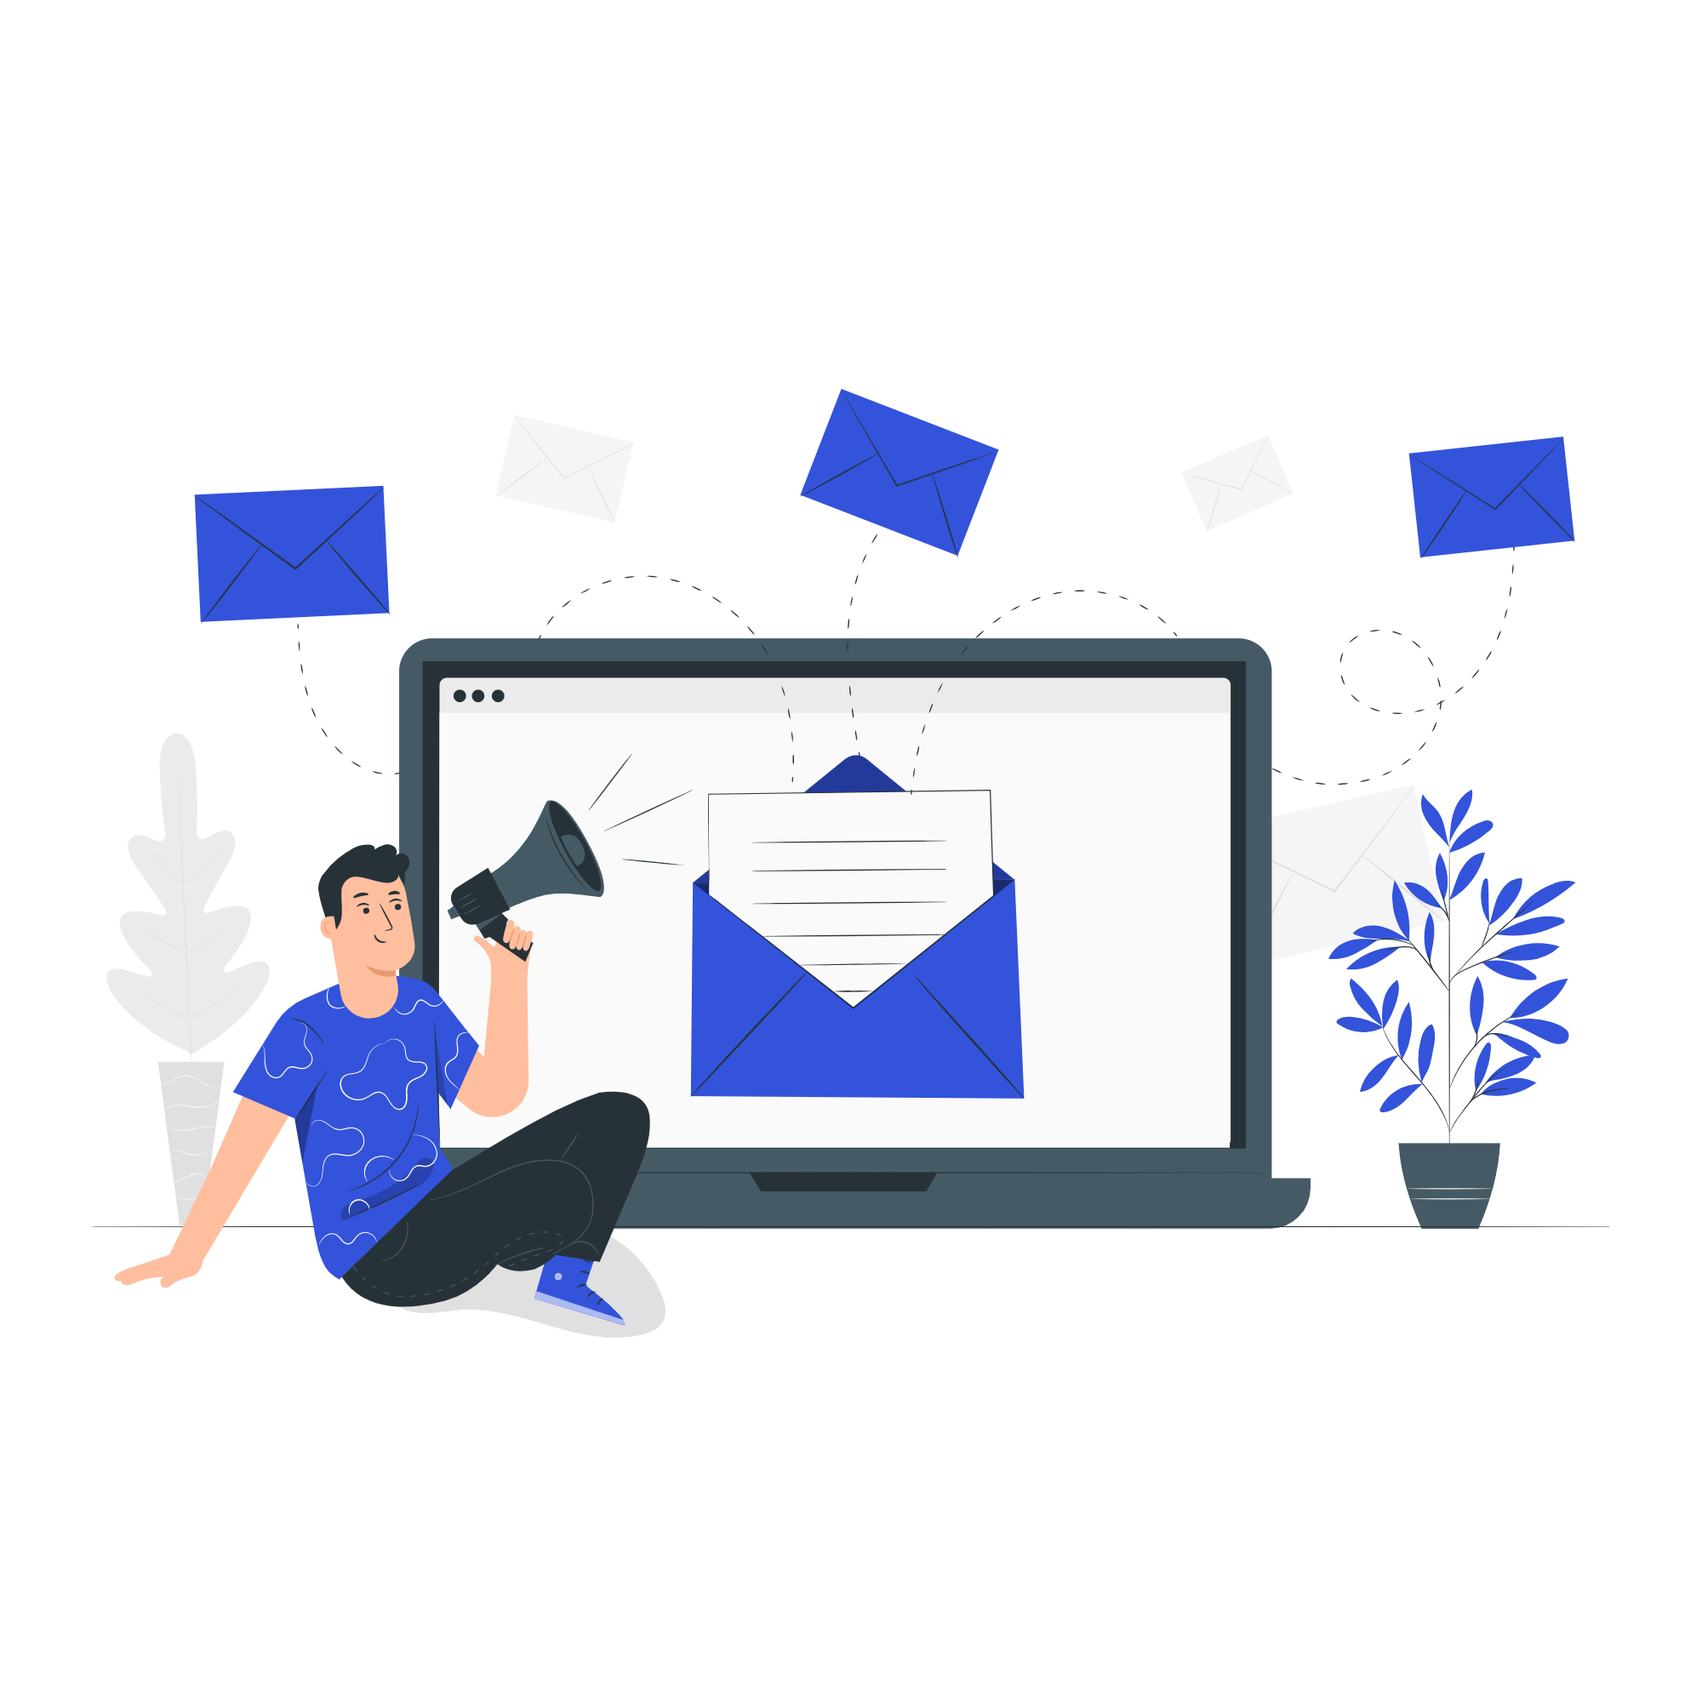
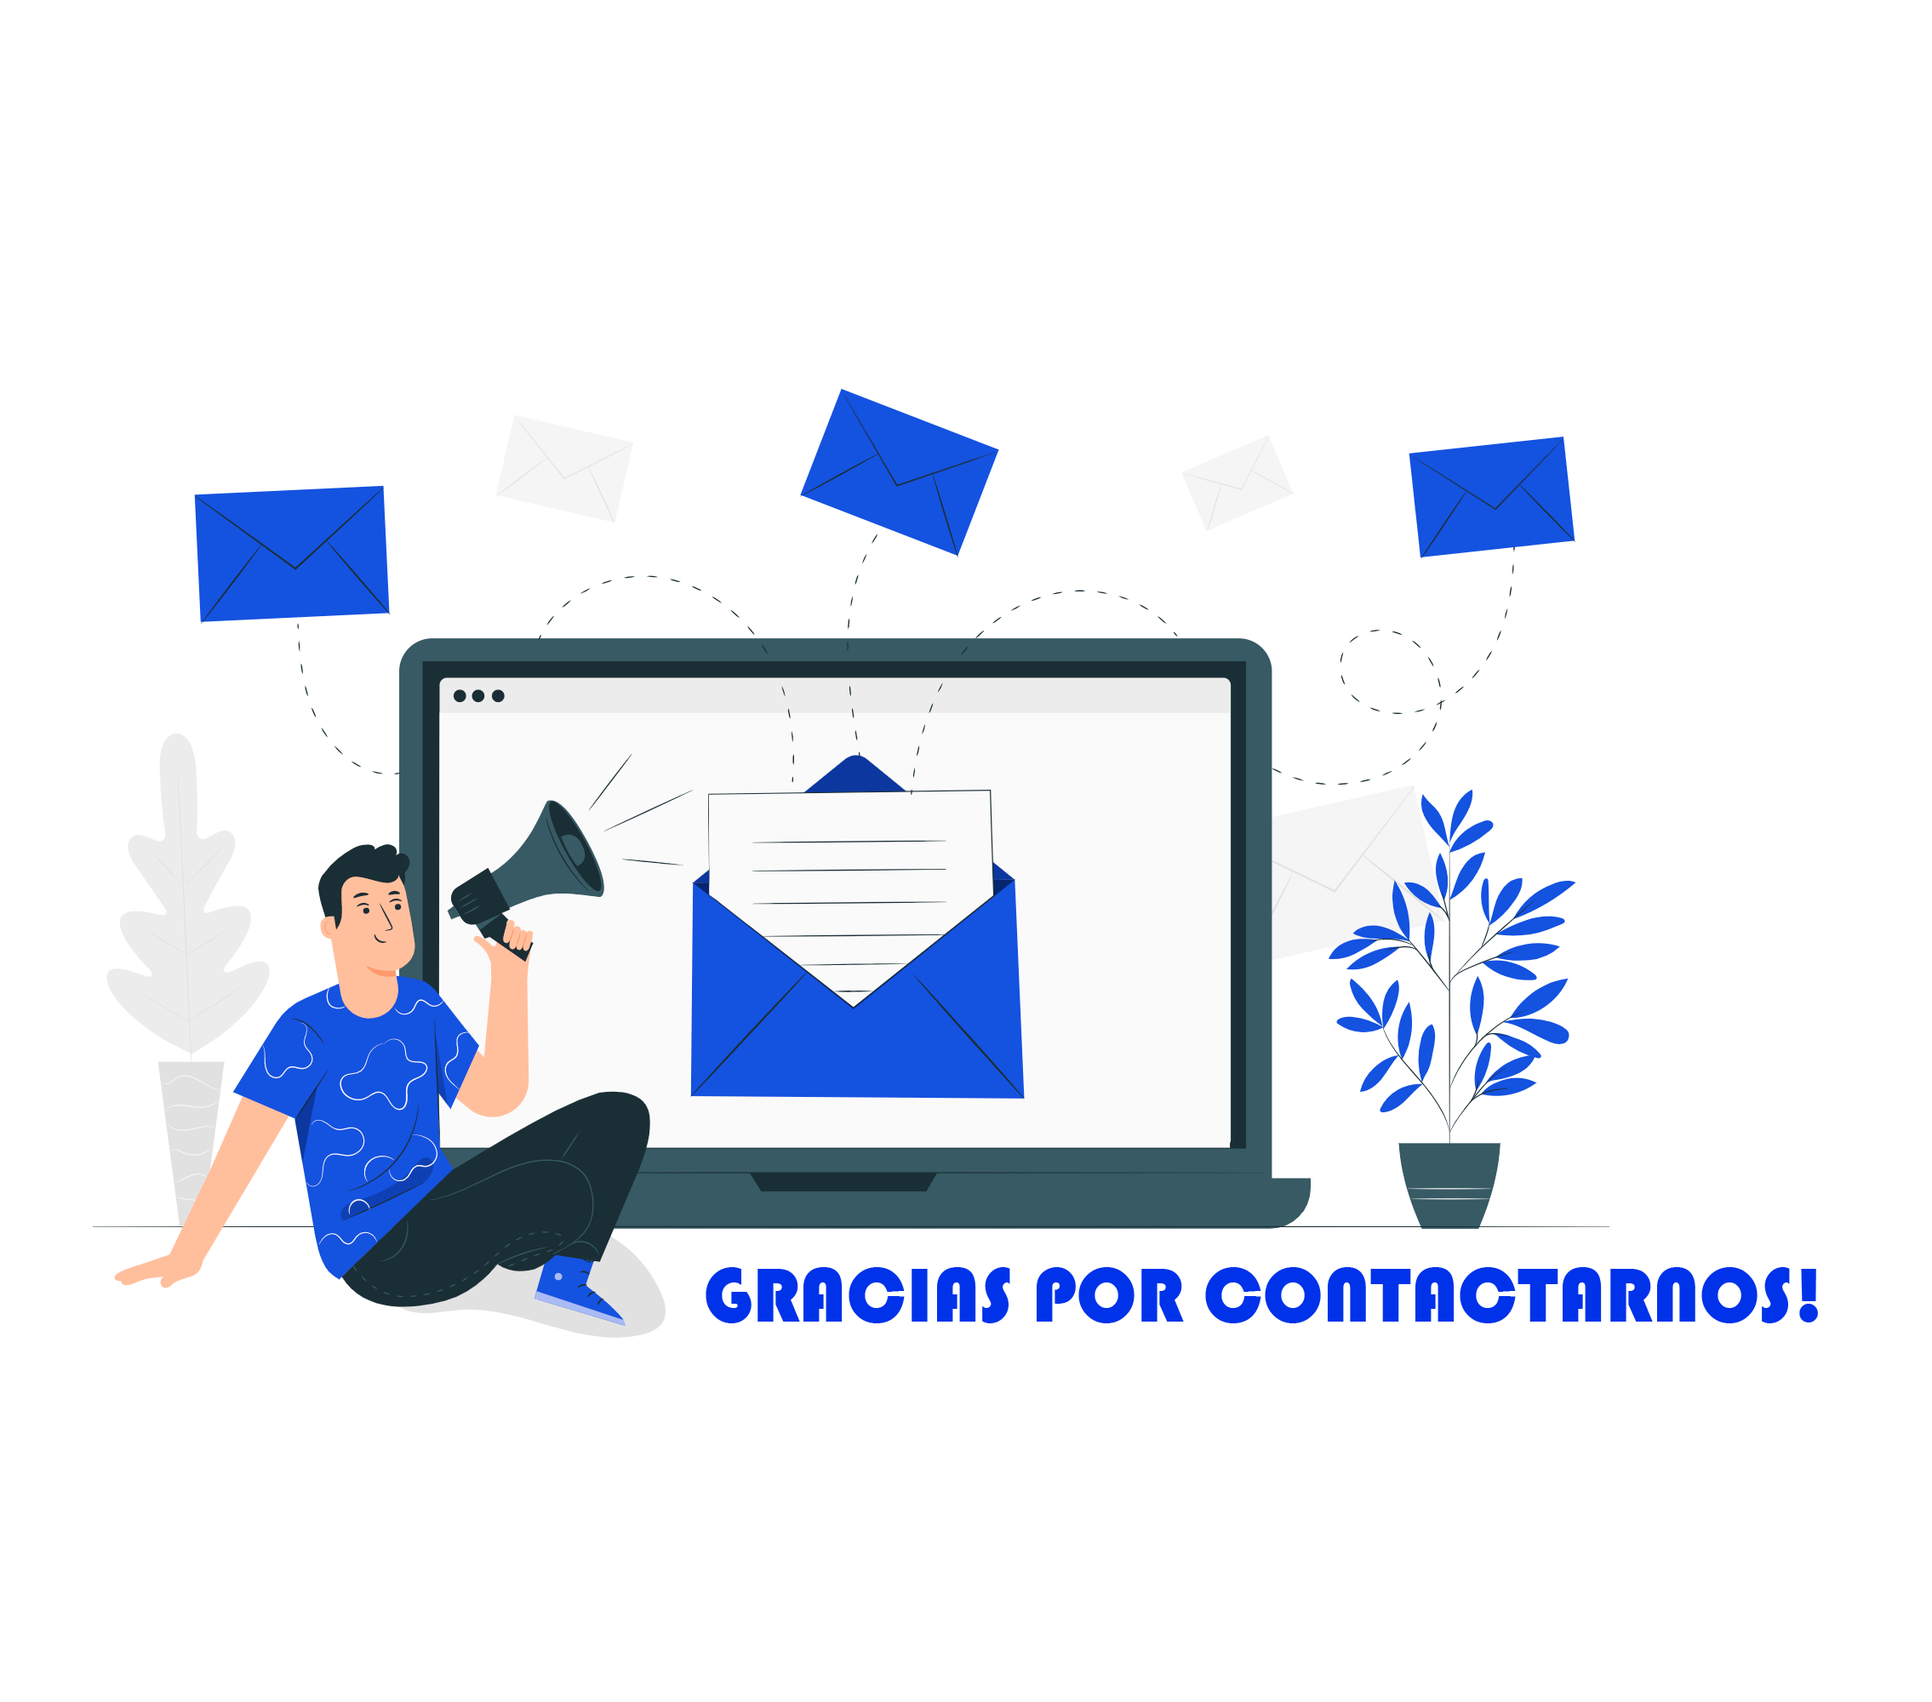
punto de control-- falta el backend de contacto

Changed region(s): [[0.062, 0.279, 0.961, 0.806], [0.713, 0.248, 0.93, 0.341], [0.403, 0.217, 0.589, 0.341]]

diff --git a/css/estilo.css b/css/estilo.css
@@ -1,253 +1,1 @@
-* {
-  -webkit-box-sizing: border-box;
-  -moz-box-sizing: border-box;
-  box-sizing: border-box; }
-
-body {
-  font-family: "Cormorant Garamond", serif;
-  font-size: 16px; }
-
-.contenedor {
-  width: 90%;
-  max-width: 1000px;
-  margin: auto;
-  overflow: hidden; }
-
-header .menu {
-  width: 100%;
-  text-align: right;
-  background: #f5f5f5; }
-  header .menu .contenedor {
-    position: relative;
-    display: flex;
-    flex-direction: row;
-    flex-wrap: wrap;
-    justify-content: space-between; }
-    header .menu .contenedor .logo {
-      margin: 10px 10px; }
-      header .menu .contenedor .logo img {
-        height: 60px;
-        width: 260px; }
-    header .menu .contenedor .item a {
-      color: #000;
-      font-size: 25px;
-      font-weight: 400;
-      display: inline-block;
-      margin: 30px 10px;
-      text-decoration: none;
-      position: relative; }
-      header .menu .contenedor .item a:hover {
-        text-decoration: underline; }
-header .portada {
-  width: 100%;
-  height: 500px;
-  background: url("../img/BG.png");
-  background-size: cover;
-  background-attachment: fixed;
-  background-position: center 0; }
-  header .portada .textos {
-    width: 100%;
-    color: #fff;
-    position: relative;
-    margin: 160px 20px; }
-    header .portada .textos .nombre {
-      font-size: 50px;
-      font-weight: 600; }
-    header .portada .textos h3 {
-      font-weight: 500;
-      font-size: 25px; }
-
-.main .somos {
-  background: #ffffff;
-  padding: 60px 0; }
-  .main .somos .titulo {
-    text-align: center;
-    font-size: 40px;
-    line-height: 40px;
-    font-weight: 500;
-    margin-bottom: 40px; }
-  .main .somos article {
-    text-align: center; }
-    .main .somos article p {
-      margin-bottom: 30px;
-      line-height: 28px;
-      font-weight: 400; }
-
-.servicios {
-  padding: 70px 0;
-  background: #f5f5f5; }
-  .servicios .titulo-contenedor {
-    width: 100%; }
-    .servicios .titulo-contenedor .titulo {
-      color: #3895ea;
-      text-align: center;
-      font-size: 40px;
-      line-height: 40px;
-      font-weight: 500;
-      margin-bottom: 40px; }
-  .servicios .listado-servicio {
-    display: flex;
-    flex-direction: row;
-    flex-wrap: wrap;
-    justify-content: space-between; }
-    .servicios .listado-servicio .servicio {
-      width: 30%;
-      margin-bottom: 40px; }
-      .servicios .listado-servicio .servicio .thumb {
-        width: 100%;
-        margin-bottom: 10px; }
-        .servicios .listado-servicio .servicio .thumb img {
-          vertical-align: top;
-          width: 100%; }
-      .servicios .listado-servicio .servicio .descripcion {
-        text-align: center; }
-        .servicios .listado-servicio .servicio .descripcion .primera_linea {
-          font-weight: 700;
-          font-size: 26px;
-          margin-bottom: 10px; }
-          .servicios .listado-servicio .servicio .descripcion .primera_linea::after {
-            display: block;
-            content: "";
-            background: #0368a3;
-            width: 100px;
-            height: 2px;
-            margin: 20px 98px; }
-        .servicios .listado-servicio .servicio .descripcion .parrafo {
-          font-weight: 500;
-          font-size: 21px;
-          line-height: 24px; }
-
-.clientes {
-  padding: 70px 0; }
-  .clientes .titulo-contenedor {
-    width: 100%; }
-    .clientes .titulo-contenedor .titulo {
-      text-align: center;
-      font-size: 40px;
-      line-height: 40px;
-      font-weight: 500;
-      margin-bottom: 40px; }
-  .clientes .listado-clientes {
-    display: flex;
-    flex-direction: column;
-    flex-wrap: wrap;
-    justify-content: space-between; }
-    .clientes .listado-clientes .cliente {
-      width: 100%;
-      overflow: hidden;
-      margin-bottom: 20px; }
-      .clientes .listado-clientes .cliente .empresa-img {
-        width: 20%;
-        float: left;
-        text-align: right;
-        margin: 10px 20px; }
-        .clientes .listado-clientes .cliente .empresa-img img {
-          max-width: 100px;
-          width: 100%;
-          vertical-align: top;
-          border-radius: 100%; }
-      .clientes .listado-clientes .cliente .review {
-        float: left;
-        width: 80%;
-        padding: 0 30px;
-        margin-top: 20px; }
-        .clientes .listado-clientes .cliente .review .texto {
-          font-size: 20px;
-          line-height: 28px;
-          margin-bottom: 10px;
-          font-weight: 500;
-          font-style: italic; }
-        .clientes .listado-clientes .cliente .review .nombre {
-          color: #ddb146;
-          font-size: 16px; }
-      .clientes .listado-clientes .cliente.derecha .empresa-img {
-        float: right;
-        text-align: left; }
-      .clientes .listado-clientes .cliente.derecha .review {
-        float: right;
-        text-align: right; }
-
-.contacto {
-  padding: 70px 0px;
-  background: #f5f5f5; }
-  .contacto .titulo-contenedor {
-    width: 100%; }
-    .contacto .titulo-contenedor .titulo {
-      color: #3895ea;
-      text-align: center;
-      font-size: 40px;
-      line-height: 40px;
-      font-weight: 600; }
-  .contacto .error-content {
-    display: flex;
-    flex-wrap: wrap;
-    justify-content: center;
-    padding-bottom: 10px; }
-    .contacto .error-content .errores {
-      width: 30%; }
-      .contacto .error-content .errores .emailSend {
-        width: 100%;
-        margin-bottom: 10px; }
-        .contacto .error-content .errores .emailSend img {
-          vertical-align: top; }
-      .contacto .error-content .errores p {
-        font-size: 20px;
-        font-weight: 500;
-        color: #c00000c0; }
-  .contacto .formulario {
-    display: flex;
-    flex-direction: row;
-    flex-wrap: wrap;
-    justify-content: space-around; }
-    .contacto .formulario .tipo-input {
-      width: 45%;
-      padding: 20px 10px; }
-      .contacto .formulario .tipo-input input[type="text"],
-      .contacto .formulario .tipo-input input[type="email"] {
-        width: 100%;
-        margin-bottom: 15px;
-        border: 2px solid #cecece;
-        border-radius: 5px;
-        padding: 15px 20px;
-        font-size: 20px;
-        color: #a4a4a4;
-        outline: none; }
-        .contacto .formulario .tipo-input input[type="text"]:focus,
-        .contacto .formulario .tipo-input input[type="email"]:focus {
-          border: 2px solid #387bea; }
-    .contacto .formulario .tipo-textArea {
-      width: 45%;
-      padding: 20px 10px; }
-      .contacto .formulario .tipo-textArea textarea {
-        width: 100%;
-        height: 201px;
-        margin-bottom: 15px;
-        max-height: 300px;
-        margin-bottom: 15px;
-        border: 2px solid #cecece;
-        border-radius: 5px;
-        padding: 15px 20px;
-        font-size: 20px;
-        color: #a4a4a4;
-        outline: none; }
-        .contacto .formulario .tipo-textArea textarea:focus {
-          border: 2px solid #387bea; }
-    .contacto .formulario .boton {
-      margin: auto;
-      background: #3895ea;
-      color: #fff;
-      border: none;
-      border-radius: 3px;
-      padding: 15px 40px;
-      font-size: 18px; }
-      .contacto .formulario .boton:hover {
-        background: #387bea; }
-
-footer {
-  background: #000; }
-  footer p {
-    text-align: center;
-    padding: 15px 0;
-    color: #fff;
-    font-weight: 500;
-    font-size: 20px; }
+*{-webkit-box-sizing:border-box;-moz-box-sizing:border-box;box-sizing:border-box}body{font-family:"Cormorant Garamond",serif;font-size:16px}.contenedor{width:90%;max-width:1000px;margin:auto;overflow:hidden}header .menu{width:100%;text-align:right;background:#f5f5f5}header .menu .contenedor{position:relative;display:flex;flex-direction:row;flex-wrap:wrap;justify-content:space-between}header .menu .contenedor .logo{margin:10px 10px}header .menu .contenedor .logo img{height:60px;width:260px}header .menu .contenedor .item a{color:#000;font-size:25px;font-weight:400;display:inline-block;margin:30px 10px;text-decoration:none;position:relative}header .menu .contenedor .item a:hover{text-decoration:underline}header .portada{width:100%;height:500px;background:url("../img/BG.png");background-size:cover;background-attachment:fixed;background-position:center 0}header .portada .textos{width:100%;color:#fff;position:relative;margin:160px 20px}header .portada .textos .nombre{font-size:50px;font-weight:600}header .portada .textos h3{font-weight:500;font-size:25px}.main .somos{background:#fff;padding:60px 0}.main .somos .titulo{text-align:center;font-size:40px;line-height:40px;font-weight:500;margin-bottom:40px}.main .somos article{text-align:center}.main .somos article p{margin-bottom:30px;line-height:28px;font-weight:400}.servicios{padding:70px 0;background:#f5f5f5}.servicios .titulo-contenedor{width:100%}.servicios .titulo-contenedor .titulo{color:#3895ea;text-align:center;font-size:40px;line-height:40px;font-weight:500;margin-bottom:40px}.servicios .listado-servicio{display:flex;flex-direction:row;flex-wrap:wrap;justify-content:space-between}.servicios .listado-servicio .servicio{width:30%;margin-bottom:40px}.servicios .listado-servicio .servicio .thumb{width:100%;margin-bottom:10px}.servicios .listado-servicio .servicio .thumb img{vertical-align:top;width:100%}.servicios .listado-servicio .servicio .descripcion{text-align:center}.servicios .listado-servicio .servicio .descripcion .primera_linea{font-weight:700;font-size:26px;margin-bottom:10px}.servicios .listado-servicio .servicio .descripcion .primera_linea::after{display:block;content:"";background:#0368a3;width:100px;height:2px;margin:20px 98px}.servicios .listado-servicio .servicio .descripcion .parrafo{font-weight:500;font-size:21px;line-height:24px}.clientes{padding:70px 0}.clientes .titulo-contenedor{width:100%}.clientes .titulo-contenedor .titulo{text-align:center;font-size:40px;line-height:40px;font-weight:500;margin-bottom:40px}.clientes .listado-clientes{display:flex;flex-direction:column;flex-wrap:wrap;justify-content:space-between}.clientes .listado-clientes .cliente{width:100%;overflow:hidden;margin-bottom:20px}.clientes .listado-clientes .cliente .empresa-img{width:20%;float:left;text-align:right;margin:10px 20px}.clientes .listado-clientes .cliente .empresa-img img{max-width:100px;width:100%;vertical-align:top;border-radius:100%}.clientes .listado-clientes .cliente .review{float:left;width:80%;padding:0 30px;margin-top:20px}.clientes .listado-clientes .cliente .review .texto{font-size:20px;line-height:28px;margin-bottom:10px;font-weight:500;font-style:italic}.clientes .listado-clientes .cliente .review .nombre{color:#ddb146;font-size:16px}.clientes .listado-clientes .cliente.derecha .empresa-img{float:right;text-align:left}.clientes .listado-clientes .cliente.derecha .review{float:right;text-align:right}.contacto{padding:70px 0px;background:#f5f5f5}.contacto .titulo-contenedor{width:100%}.contacto .titulo-contenedor .titulo{color:#3895ea;text-align:center;font-size:40px;line-height:40px;font-weight:600}.contacto .error-content{display:flex;flex-wrap:wrap;justify-content:center;padding-bottom:10px;margin-top:-20px}.contacto .error-content .errores{width:40%}.contacto .error-content .errores .emailSend{width:100%;margin-bottom:10px}.contacto .error-content .errores .emailSend .send{width:100%;vertical-align:top}.contacto .error-content .errores p{font-size:20px;font-weight:500;color:#c00000c0}.contacto .formulario{display:flex;flex-direction:row;flex-wrap:wrap;justify-content:space-around}.contacto .formulario .tipo-input{width:45%;padding:20px 10px}.contacto .formulario .tipo-input input[type="text"],.contacto .formulario .tipo-input input[type="email"]{width:100%;margin-bottom:15px;border:2px solid #cecece;border-radius:5px;padding:15px 20px;font-size:20px;color:#a4a4a4;outline:none}.contacto .formulario .tipo-input input[type="text"]:focus,.contacto .formulario .tipo-input input[type="email"]:focus{border:2px solid #387bea}.contacto .formulario .tipo-textArea{width:45%;padding:20px 10px}.contacto .formulario .tipo-textArea textarea{width:100%;height:201px;margin-bottom:15px;max-height:300px;margin-bottom:15px;border:2px solid #cecece;border-radius:5px;padding:15px 20px;font-size:20px;color:#a4a4a4;outline:none}.contacto .formulario .tipo-textArea textarea:focus{border:2px solid #387bea}.contacto .formulario .boton{margin:auto;background:#3895ea;color:#fff;border:none;border-radius:3px;padding:15px 40px;font-size:18px}.contacto .formulario .boton:hover{background:#387bea}footer{background:#000}footer p{text-align:center;padding:15px 0;color:#fff;font-weight:500;font-size:20px}@media screen and (max-width: 800px){header .menu{text-align:center}header .menu .contenedor{flex-direction:column}header .menu .contenedor .logo img{height:70px}header .menu .contenedor .item{margin:5px 20px}.servicios .listado-servicio{text-align:center}.servicios .listado-servicio .servicio{width:100%}.servicios .listado-servicio .servicio .thumb img{width:80%;height:350px}.servicios .listado-servicio .servicio .descripcion .primera_linea:after{content:none}.contacto .error-content .errores{width:70%}.contacto .formulario{flex-direction:column}.contacto .formulario .tipo-input{width:100%}.contacto .formulario .tipo-textArea{width:100%}.contacto .formulario .tipo-textArea textarea{height:180px}}

diff --git a/css/sass/_mediaQueries.sass b/css/sass/_mediaQueries.sass
@@ -1,0 +1,36 @@
+@media screen and ( max-width: 800px ) 
+    header
+        .menu
+            text-align: center            
+            .contenedor
+                flex-direction: column
+                .logo
+                    img
+                        height: 70px
+                .item
+                    margin: 5px 20px
+    .servicios
+        .listado-servicio
+            text-align: center
+            .servicio
+                width: 100%
+                .thumb
+                    img
+                        width: 80%
+                        height: 350px
+                .descripcion
+                    .primera_linea
+                        &:after
+                            content: none
+    .contacto
+        .error-content
+            .errores
+                width: 70%
+        .formulario
+            flex-direction: column
+            .tipo-input
+                width: 100%
+            .tipo-textArea
+                width: 100%
+                textarea
+                    height: 180px

diff --git a/index.html b/index.html
@@ -7,6 +7,7 @@
     <link rel="stylesheet" href="css/normalize.min.css">
     <link rel="stylesheet" href="css/estilo.css">
     <link href="https://fonts.googleapis.com/css2?family=Cormorant+Garamond:ital,wght@0,300;0,400;0,500;0,600;1,500&display=swap" rel="stylesheet">
+    <link rel="shortcut icon" href="img/icono.ico" type="image/x-icon">
 </head>
 <body>
     <header>
@@ -126,7 +127,7 @@
                 <div class='error-content'>
                     <div class='errores'>
                         <div class="emailSend">
-                            <img src='img/Vectores/Email.png' alt='Correo Enviado Exitosamente'>
+                            <img src='img/Vectores/Email.png' class = "send" alt='Correo Enviado Exitosamente'>
                         </div>
                         
                     </div>

diff --git a/css/sass/_contacto.sass b/css/sass/_contacto.sass
@@ -14,12 +14,14 @@
         flex-wrap: wrap
         justify-content: center
         padding-bottom: 10px
+        margin-top: -20px
         .errores
-            width: 30%
+            width: 40%
             .emailSend
                 width: 100%
                 margin-bottom: 10px
-                img
+                .send
+                    width: 100%
                     vertical-align: top
             p
                 font-size: 20px

diff --git a/css/sass/estilo.sass b/css/sass/estilo.sass
@@ -10,6 +10,8 @@
 
 @import footer
 
+@import mediaQueries
+
 
 
 
